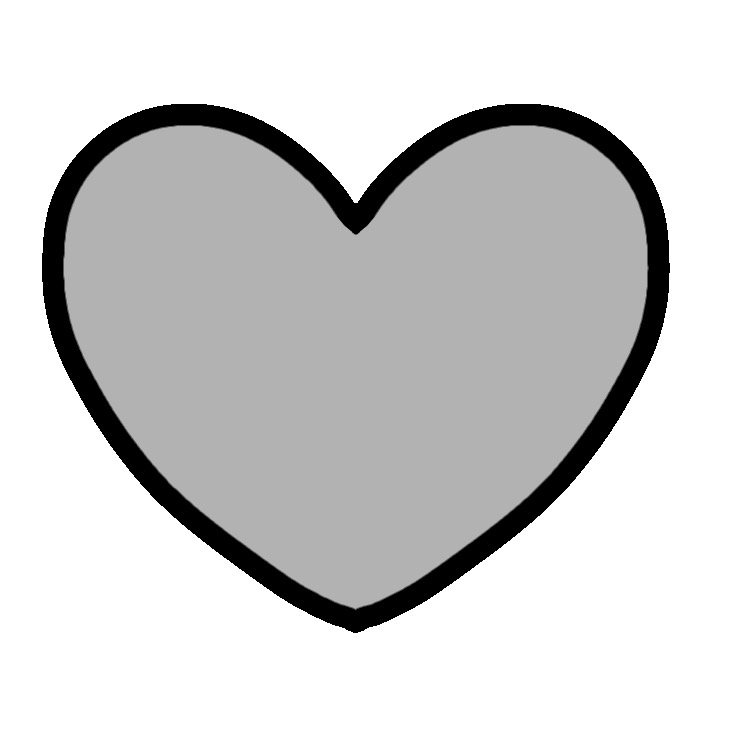
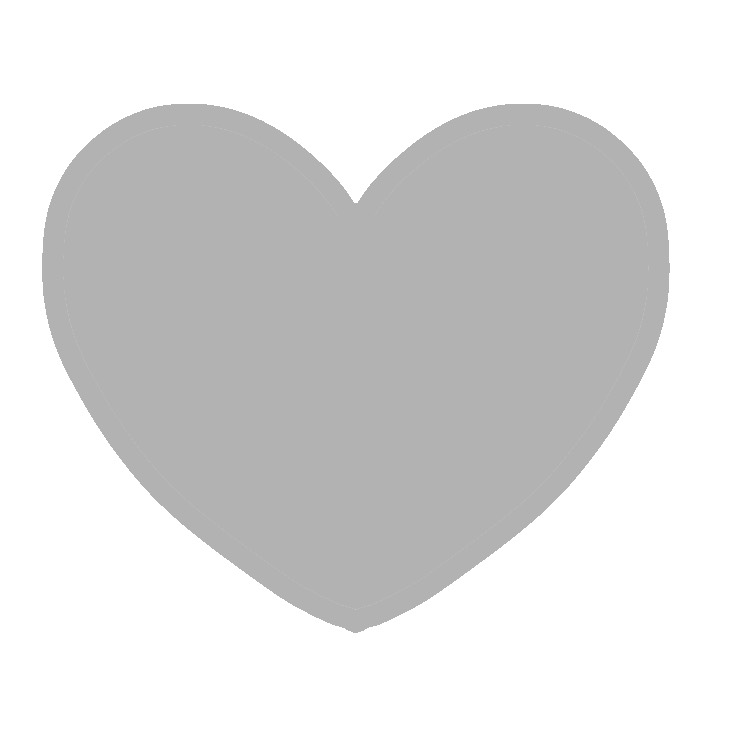
Refresh heart artwork and retain remaining lives on results

Changed region(s): [[0.0311, 0.1248, 0.9337, 0.8738]]

diff --git a/app.js b/app.js
@@ -101,13 +101,13 @@ function setProfile(character) {
 
 function updateLives() {
   if (!els.lifeMeter) return;
-  els.lifeMeter.hidden = !state.character || els.stage.classList.contains("is-ending");
+  els.lifeMeter.hidden = !state.character;
   els.lifeMeter.setAttribute("aria-label", `残りライフ ${state.lives} / ${MAX_LIVES}`);
   els.lifeMeter.replaceChildren(...Array.from({ length: MAX_LIVES }, (_, index) => {
     const heart = document.createElement("img");
     const filled = index < state.lives;
     heart.className = `life-heart${filled ? "" : " is-empty"}`;
-    heart.src = filled ? "life-heart-full.jpg?v=20261016" : "life-heart-empty.jpg?v=20261016";
+    heart.src = filled ? "life-heart-full.jpg?v=20261016-v2" : "life-heart-empty.jpg?v=20261016-v2";
     heart.alt = "";
     heart.draggable = false;
     heart.width = 30;

diff --git a/index.html b/index.html
@@ -72,6 +72,6 @@
     </main>
 
     <script src="game-data.js?v=20261016-sato-reaction"></script>
-    <script src="app.js?v=20261016-heart-images"></script>
+    <script src="app.js?v=20261016-result-lives"></script>
   </body>
 </html>

diff --git a/otome-original.html b/otome-original.html
@@ -72,6 +72,6 @@
     </main>
 
     <script src="game-data.js?v=20261016-sato-reaction"></script>
-    <script src="app.js?v=20261016-heart-images"></script>
+    <script src="app.js?v=20261016-result-lives"></script>
   </body>
 </html>

diff --git a/otome.html b/otome.html
@@ -75,6 +75,6 @@
     </main>
 
     <script src="game-data.js?v=20261016-sato-reaction"></script>
-    <script src="app.js?v=20261016-heart-images"></script>
+    <script src="app.js?v=20261016-result-lives"></script>
   </body>
 </html>
